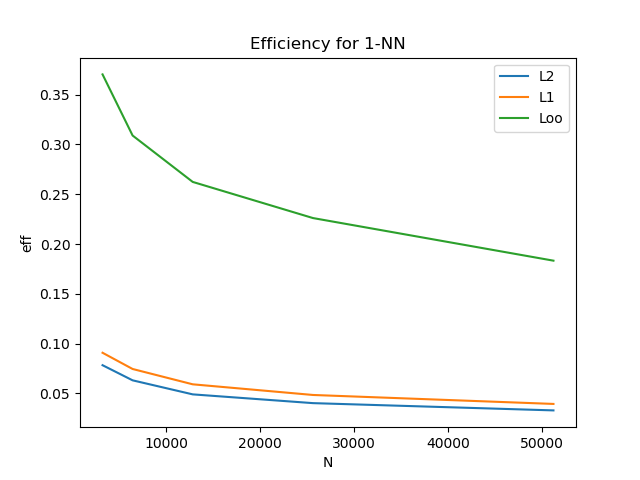
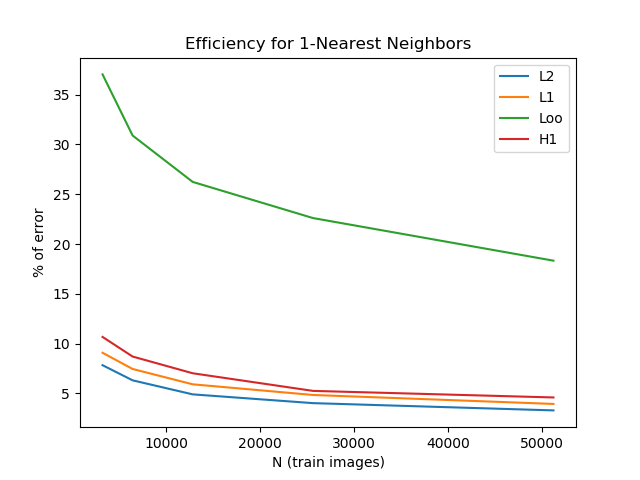
Data for H1 distance.

diff --git a/classify.py b/classify.py
@@ -28,44 +28,111 @@ def dist_H_sklearn(a,b):
 	dy=dy.flatten()
 	return pow( fpart.dot(fpart) + dx.dot(dx) + dy.dot(dy)  ,0.5)
 
-x_train=x_train.reshape((len(x_train),28*28))
-x_test=x_test.reshape((len(x_test),28*28))
 
-def classify(treen,k,T):
+def classify(k,T):
 	'''
 	k nearest neighbors classification
 	'''
 	dist,ind = tree.query(x_test[:T],k=k)
 	digits=[[ y_train[i] for i in indj ] for indj in ind ]
-	classific = [ max(dig,key=dig.count) for dig in digits ]
-	return classific
+	cla = [ max(dig,key=dig.count) for dig in digits ]
+	return cla
 
-def error_classification(tree,k,T):
+def error_classification(k,T):
 	'''
 	returns the fraction of errors
 	T: is the number of tests
 	'''
-	cla=classify(tree,k,T)
+	cla=classify(k,T)
 	uniq = dict( zip( *np.unique(cla==y_test[:T],return_counts=True) ))
 	return uniq[False]/T
 
 if __name__ == "__main__":
+	
+	dist_name = sys.argv[1]
+
+	#start=time.perf_counter()
+
+	if dist_name == "L2":
+		x_train=x_train.reshape((len(x_train),28*28))
+		x_test=x_test.reshape((len(x_test),28*28))
+		metric=skn.dist_metrics.EuclideanDistance()
+		
+	
+	if dist_name == "L1":
+		x_train=x_train.reshape((len(x_train),28*28))
+		x_test=x_test.reshape((len(x_test),28*28))
+		metric=skn.dist_metrics.ManhattanDistance()
+	
+	if dist_name == "Loo":
+		x_train=x_train.reshape((len(x_train),28*28))
+		x_test=x_test.reshape((len(x_test),28*28))
+		metric=skn.dist_metrics.ChebyshevDistance()
+	
+	if dist_name == "H1_test":
+		x_train=x_train.reshape((len(x_train),28*28))
+		x_test=x_test.reshape((len(x_test),28*28))
+		metric=skn.dist_metrics.PyFuncDistance(dist_H_sklearn)
+	
+	if dist_name == "H1":
+		
+		def repackage(data):
+			for i in range(len(data)):
+				data[i]=data[i]*(1.0/data[i].sum())
+			
+			scalar=data.reshape((len(data),28*28))
+			gradx=np.diff(data,axis=1)
+			grady=np.diff(data,axis=2)
+			gradx=gradx.reshape((len(data),28*27))
+			grady=grady.reshape((len(data),28*27))
+			return np.concatenate((gradx,grady,scalar),axis=1)
+		
+		x_train = repackage(x_train)
+		x_test = repackage(x_test)
+		
+		metric=skn.dist_metrics.EuclideanDistance()
+	
+	if dist_name == "MA_test":
+		x_train=x_train.reshape((len(x_train),28*28))
+		x_test=x_test.reshape((len(x_test),28*28))
+		
+		metric=skn.dist_metrics.PyFuncDistance(dist_MA_sklearn)
+	
+	if dist_name == "MA":
+		
+		def repackage(data):
+			for i in range(len(data)):
+				data[i]=data[i]*(1.0/data[i].sum())
+				data[i]=solve_poisson(data[i])
+			
+			scalar=data.reshape((len(data),28*28))
+			gradx=np.diff(data,axis=1)
+			grady=np.diff(data,axis=2)
+			gradx=gradx.reshape((len(data),28*27))
+			grady=grady.reshape((len(data),28*27))
+			return np.concatenate((gradx,grady,scalar),axis=1)
+		
+		x_train = repackage(x_train)
+		x_test = repackage(x_test)
+		
+		metric=skn.dist_metrics.EuclideanDistance()
 
 	for p in range(5,10):
 		N = 100 * 2**p
+	
+		tree=skn.BallTree(
+			x_train[:N],
+			metric=metric)
 		
-		X=x_train[:N]
+		#end=time.perf_counter()
+		#print("precal:","%.2f sec" % (end-start))
 		
-		tree=skn.BallTree(X,metric=skn.dist_metrics.ChebyshevDistance()) # L_oo
-		#tree=skn.BallTree(X,metric=skn.dist_metrics.ManhattanDistance()) # L_1
-		#tree=skn.BallTree(X,metric=skn.dist_metrics.EuclideanDistance()) # L_2
-		#tree=skn.BallTree(X,metric=skn.dist_metrics.PyFuncDistance(dist_MA_sklearn)) #
-
 		for k in [1,3,5]:
 			start=time.perf_counter()
-			err=error_classification(tree,k,10000)
+			err=error_classification(k,10000)
 			end=time.perf_counter()
-			print("Loo",N,k,err)
+			print(dist_name,N,k,err)
+			#print("%.2f sec" % (end-start))
 			#print("k: ",k,
 			#	"error:", "%.2f %%" % (err*100),
 			#	"time:", "%.2f sec" % (end-start) )

diff --git a/test.py b/test.py
@@ -4,6 +4,7 @@ import sys
 import numpy as np
 import unittest
 from init import *
+from classify import *
 
 class TestC(unittest.TestCase):
 	
@@ -18,7 +19,27 @@ class TestC(unittest.TestCase):
 		self.assertEqual(
 			[dist(a,a),dist(b,b),dist(b,a),dist(a,b),dist(2*a,2*b)],
 			[0.,0.,y,y,y])
-
+		
+		a=x_train[0]
+		b=x_train[1]
+		x=0.11899615703519785
+		y=dist(a,b)
+		self.assertAlmostEqual(x,y,places=12)
+		self.assertEqual(
+			[dist(a,a),dist(b,b),dist(b,a),dist(a,b)],
+			[0.,0.,y,y])
+		
+		dist=dist_H_sklearn
+		a=x_train[0].reshape(28*28)
+		b=x_train[1].reshape(28*28)
+		x=0.11899615703519785
+		y=dist(a,b)
+		self.assertAlmostEqual(x,y,places=12)
+		self.assertEqual(
+			[dist(a,a),dist(b,b),dist(b,a),dist(a,b)],
+			[0.,0.,y,y])
+			
+		
 
 	def test_err_dist_matrix(self):
 		x=[ 100*2**i for i in range(2) ]

diff --git a/libdist.c b/libdist.c
@@ -1,6 +1,42 @@
 #include <stdlib.h>
 #include <math.h>
 
+void csolve_poisson(const double* rho,double* phi,const size_t N){
+	const size_t N2=N*N,T=56;
+	for(size_t i=0;i<N2;++i)
+		phi[i]=rho[i]*0.25;
+		
+	for(size_t t=0;t<T;++t)
+		for(size_t i=0;i<N;++i)
+			for(size_t j=0;j<N;++j){
+				double left,right,top,down;
+				
+				if(i)
+					top=phi[(i-1)*N+j];
+				else
+					top=0;
+				
+				if(j)
+					left=phi[i*N+j-1];
+				else 
+					left=0;
+				
+				if(i<(N-1))
+					down=phi[(i+1)*N+j];
+				else
+					down=0;
+				
+				if(j<(N-1))
+					right=phi[i*N+j+1];
+				else
+					right=0;
+			
+				phi[i*N+j] = 0.25*(
+					rho[i*N+j]
+					+ left+right+top+down);
+			}
+}
+
 double cdist_MA(const double* A,const double* B,const size_t N){
 	const size_t N2=N*N,T=56,Npad=N+2;
 	double nA=0,nB=0;

diff --git a/plot.py b/plot.py
@@ -13,7 +13,7 @@ def plot_k(kthis):
 		name,N,k,err=l.split()
 		N = int(N)
 		k = int(k)
-		err = float(err)
+		err = float(err)*100
 		
 		if k != kthis:
 			continue
@@ -32,9 +32,9 @@ def plot_k(kthis):
 		plt.plot(x[name],y[name],label=name)
 	
 	plt.legend()
-	plt.xlabel("N")
-	plt.ylabel("eff")
-	plt.title(f"Efficiency for {kthis}-NN")
+	plt.xlabel("N (train images)")
+	plt.ylabel("% of error")
+	plt.title(f"Efficiency for {kthis}-Nearest Neighbors")
 	plt.savefig(f"plot_{kthis}.png")
 	f.close()
 
